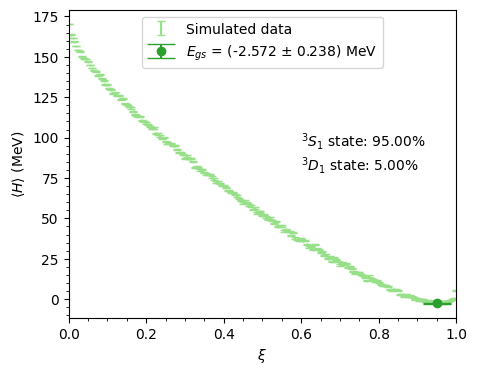
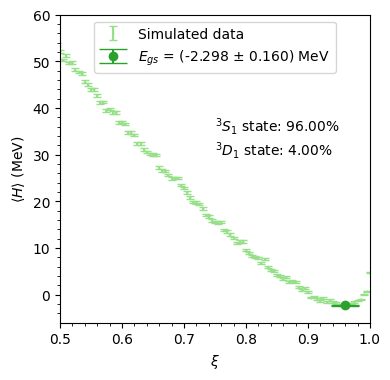
Readme and notebook updates + update xi plot

Changed region(s): [[0.0, 0.0293, 0.9846, 0.9093], [0.5538, 0.2933, 0.8923, 0.4693], [0.5231, 0.9387, 0.5538, 0.968]]

diff --git a/README.md b/README.md
@@ -26,6 +26,19 @@ $$
 
 Thanks to the Jordan-Wigner transformation, the Hamiltonian is expressed in terms of Pauli matrices, allowing us to map it into a quantum circuit with $N$ qubits. By calculating the variational ground state energies for $H_1$, $H_2$ and $H_3$, one can extrapolate the infinite-basis binding energy using the harmonic oscillator variant of Lüscher formula.
 
+### Relative mixing between $^3 S_1$ and $^3 D_1$ partial waves
+The second being the study of the relative mixing between the only two allowed states for the ground state deuteron: a isospin singlet, spin triplet state with $L=0$ ($^3 S_1$) and $L=2$ ($^3 D_1$). One can consider the two-level system built from the $S$ wave $\ket{\phi_S}$ and $D$ wave $\ket{\phi_D}$ such that the Hamiltonian is of the form:
+
+$$
+H = \left(\begin{matrix} \braket{\phi_S|H|\phi_S} & \braket{\phi_S|H|\phi_D} \\ \braket{\phi_D|H|\phi_S} & \braket{\phi_D|H|\phi_D}\end{matrix}\right).
+$$
+
+By introducing the relative mixing parameter $\xi$, one can calculate the optimal mixing between the two partial waves in order to obtain the lowest energy:
+
+$$
+\ket{\psi} = \sqrt{\xi} \, \ket{\phi_S} + \sqrt{1-\xi} \, \ket{\phi_D}.
+$$
+
 ## Results
 Here you can find an example of some results obtained with the code in `deuteron.ipynb`:
 
